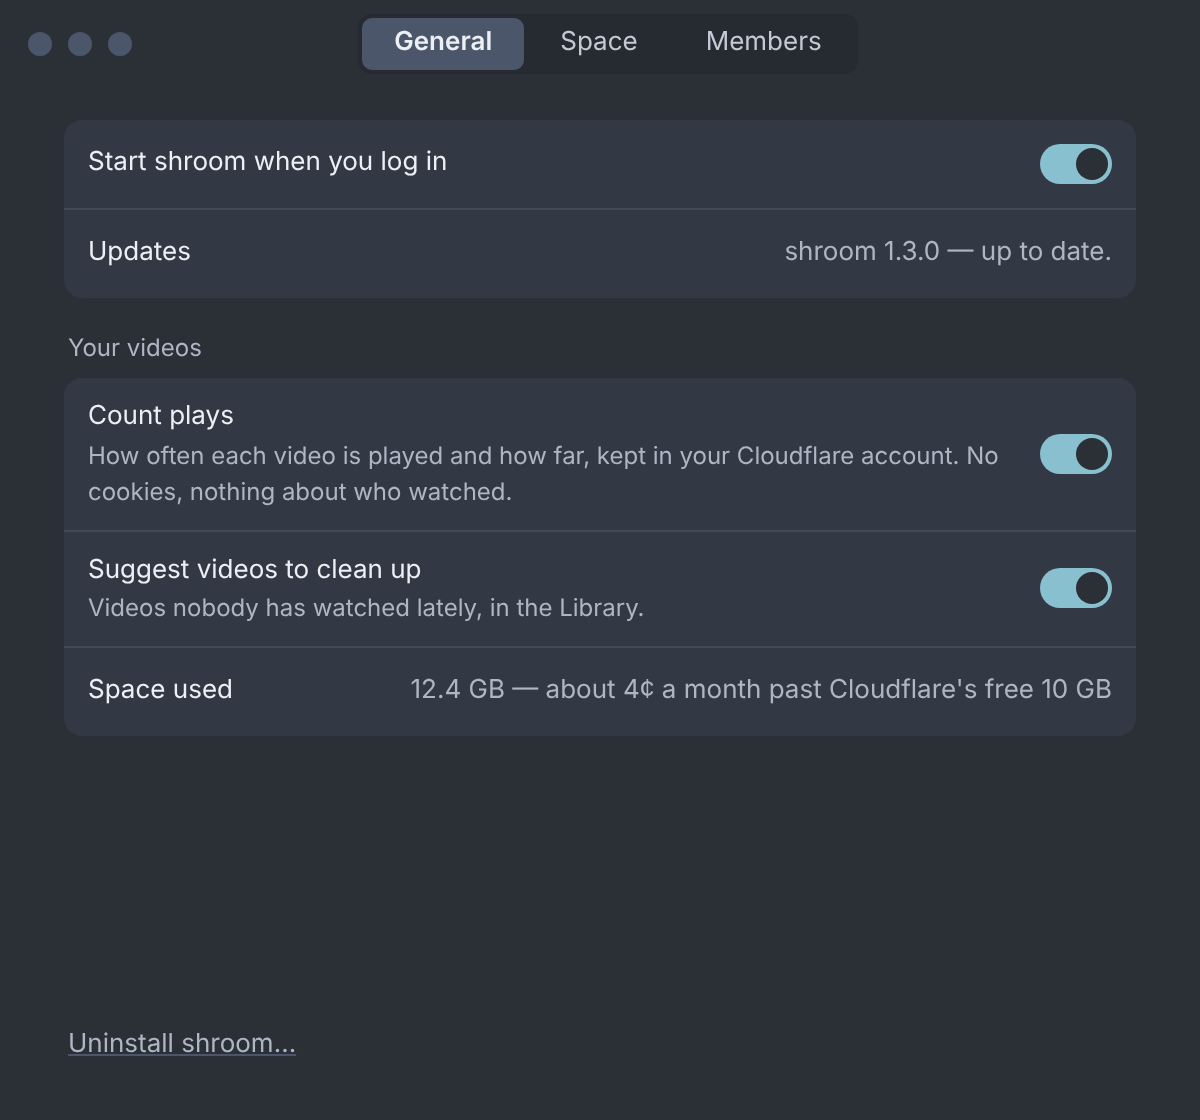
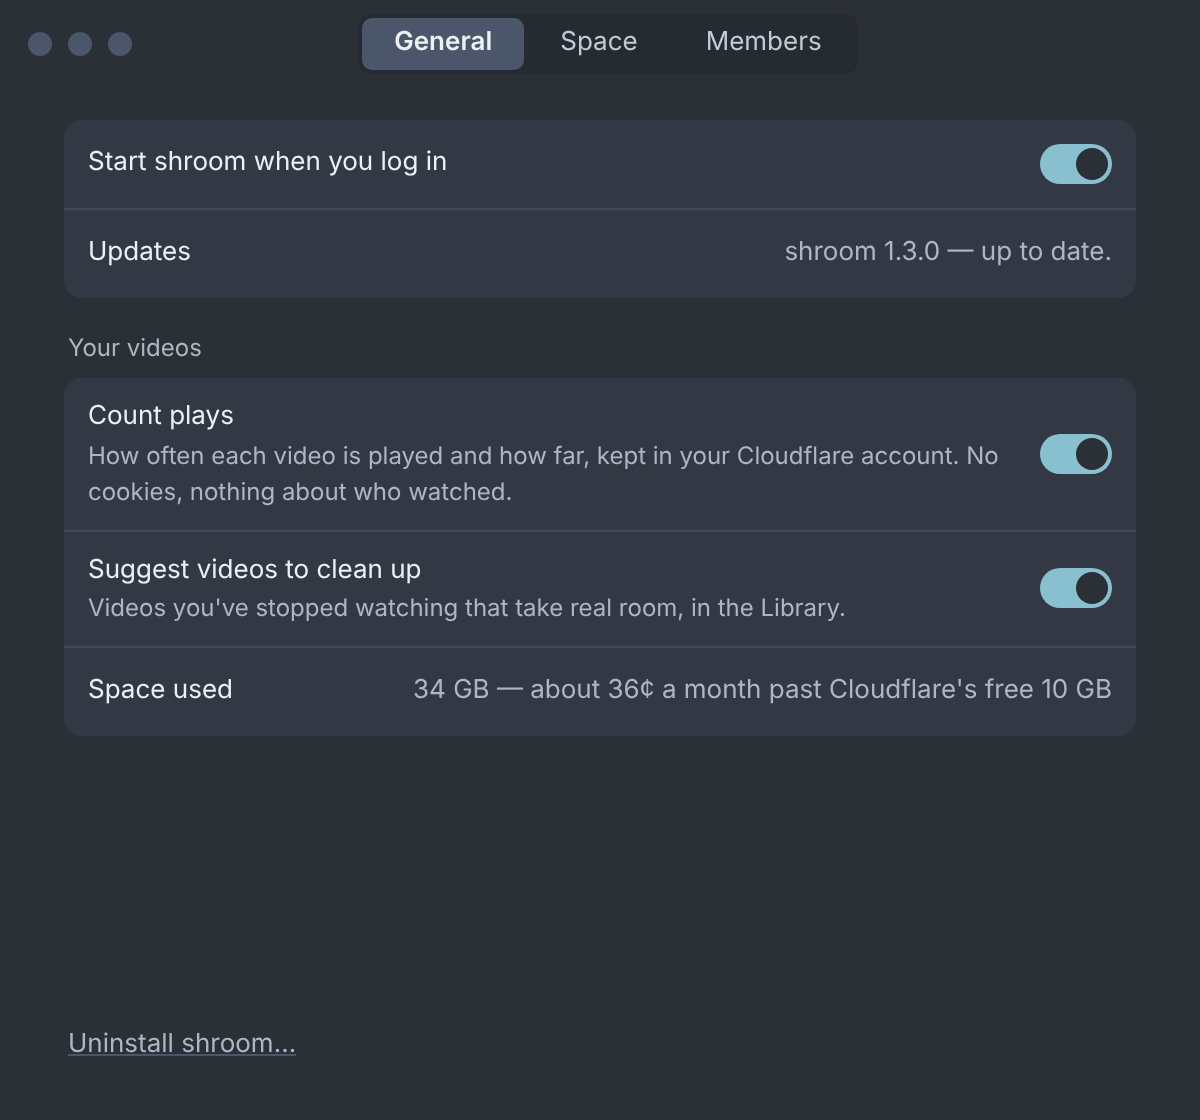
dev/proposals: cleanup suggestions take Bagrat's answers; fading-cost worked, inside the free tier too

Changed region(s): [[0.1542, 0.5312, 0.7092, 0.5625], [0.3392, 0.5938, 0.5242, 0.625]]

diff --git a/dev/proposals/cleanup-suggestions.md b/dev/proposals/cleanup-suggestions.md
@@ -4,6 +4,16 @@
 privacy page promises, and the new rows, words and setting are all Bagrat's call. The words on
 the boards and in the reasons are drafts.*
 
+> **Bagrat's answers (2026-10-18), relayed by the orchestrator:**
+> 1. **Count plays: on by default**, with the switch in Settings.
+> 2. **Count plays and unique-ish viewers** (the daily-salted hash).
+> 3. **The formula: fading and cost together** (B + C). Built as `fading-cost`, now the
+>    route's default; see §3.
+> 4. **Delete: one tap, with Undo.**
+>
+> Questions 5–7 (the money line, who sees whose, the Mac writing `bytes`) stand as drafted
+> below. The privacy wording waits on his words.
+
 Bagrat asked (2026-10-18) for shroom to work out which videos are worth deleting. Storage is
 what costs money, so shroom should be able to say *these ones, and why*. He suggested
 a formula built from when a video was added, how often it's been watched, how much of it
@@ -19,9 +29,11 @@ people watch and when it was last watched, and asked for several versions.
   a verdict: a candidate or not, a score to rank by, and a reason code with the facts its line
   needs. The app's Library and the agent CLI (`shroom cleanup-candidates --json`) both read
   it.
-- **Four formulas**, run over the same invented Library in §3. **The recommendation is `idle`**:
-  nobody has played it in 60 days (30 if nobody ever has), with the biggest and quietest
-  first. It's the only one whose reason a person can check in their head.
+- **Five formulas**, run over the same invented Library in §3. **Bagrat picked fading and cost
+  together**, built as `fading-cost`: a video is suggested when its plays have faded (a
+  30-day half-life, weighted by how far people watched) *and* it takes at least a cent a
+  month to keep (≈ 0.67 GB). The dearest per remaining play goes first. Its reason line is
+  checkable: "Takes 3.2 GB; watched 4 times, the last 10 months ago."
 - **The money is small, so say so.** At Cloudflare's $0.015 per GB a month, with the first
   10 GB free, a 12 GB space saves about 4¢ a month by deleting 8.6 GB. The suggestion has to
   earn its place on tidiness and on staying inside the free tier, not on the saving. Every
@@ -104,13 +116,13 @@ each, so even a thousand of them is far under a cent of storage.
 | `POST /_shroom/view/<id>`: same-site only (`Origin` itself, `Origin: null` from WebKit's unload beacons, never `Sec-Fetch-Site: cross-site`), at most 512 bytes, always 204 | `viewBeacon`, `daySalt`, `viewerHash`, `countView`, `applyView` |
 | The scores and the saving | `cleanupFacts`, `cleanupScore`, `monthlySaving`, `FORMULAS` |
 | `POST /_shroom/api/cleanup` `{scope: "mine"\|"everyone", formula?, after?}` → `{countingSince, formula, items, next}`: device key; a member sees their own; paged like the Library (40 records a call) | `cleanup` |
-| 23 unit tests: counting, dedupe, the day's salt, CAS races, refusals, the owner page, the formulas, the route's scopes and paging | `worker/test/views.test.js` |
+| 24 unit tests: counting, dedupe, the day's salt, CAS races, refusals, the owner page, the formulas, the route's scopes and paging | `worker/test/views.test.js` |
 | Real browsers: a bounce, a half watch, a full watch, the owner's own watch, in headless Chromium and WebKit | `worker/dev/views-drive.mjs` |
 | The four formulas over an invented Library | `worker/dev/cleanup-sample.mjs` |
 
 ```sh
 cd worker
-npx vitest run test/views.test.js        # 23/23
+npx vitest run test/views.test.js        # 24/24
 node dev/views-drive.mjs                 # Chromium and WebKit: 12/12 checks
 node dev/cleanup-sample.mjs              # §3's tables
 ```
@@ -125,7 +137,7 @@ switch's write (`.shroom/views.off` is honoured, but nothing writes it yet), and
 video's record when it's deleted (the token Mac's sweep would; a stale record is harmless
 because `cleanup` lists only live videos).
 
-## 3. Four formulas, worked
+## 3. Five formulas, worked
 
 Every formula shares the same guards. **Never suggest:** a video marked **Keep** (a new
 `keep: true` on its record); one under 14 days old; one played in the last 14 days; one still
@@ -142,7 +154,8 @@ single-file copy together).
 
 | | Rule | Ranks by | Good at | Weak at |
 |---|---|---|---|---|
-| **A. `idle`** (recommended) | Nobody has played it in 60 days, or 30 if nobody ever has | quiet days × GB | Easy to explain: "Last watched 4 months ago." Anyone can check it. | Ignores how popular it once was |
+| **B + C. `fading-cost`** (Bagrat's pick, the default) | B's heat under 0.25 **and** at least 1¢ a month at list price (≈ 0.67 GB); at least 30 days old and quiet | $/month ÷ (heat + 0.05) | Suggests only what has faded *and* takes real room; protects past hits; the line reads "Takes 3.2 GB; watched 4 times, the last 10 months ago" | Conservative: small clutter (drafts, test takes) is never suggested at 1¢ |
+| **A. `idle`** | Nobody has played it in 60 days, or 30 if nobody ever has | quiet days × GB | Easy to explain: "Last watched 4 months ago." Anyone can check it. | Ignores how popular it once was |
 | **B. `fading`** | Plays fade with a 30-day half-life, each weighted by how far it was watched (0.3 + 0.7 × median); suggested once below 0.25, which is one full watch two months ago | GB ÷ heat | Respects a past hit: 30 plays five months ago aren't suggested yet | Hard to say in a line; the knobs are arbitrary |
 | **C. `cost`** | Costs at least 1¢ a month and drew under one play a month over 90 days | $/month ÷ plays per month | Goes straight for the money, big files only | Never suggests the small clutter (test takes, drafts) |
 | **D. `gravity`** | Hacker News's gravity turned round: (plays × (0.5 + median) + 1) ÷ (age + 2)^1.5, below 0.004 | GB ÷ pull | One number, well known | Opaque, and age keeps penalising a video that's still in use |
@@ -168,7 +181,8 @@ Twelve made-up videos, 12.4 GB in all; counting began six months ago; today is 2
 
 | Formula | Suggests | Frees | Saves a month (past the free 10 GB) | At list price |
 |---|---|---|---|---|
-| **A. idle** | 8: billing walkthrough, Q3 roadmap, Release 1.4 demo, Acme recap, design review, weekly update, bug repro, draft | 8.61 GB | **4¢** | 13¢ |
+| **B + C. fading-cost** | 2: billing walkthrough ("Takes 3.22 GB; watched 4 times, the last 10 months ago"), Acme recap ("Takes 1.78 GB; nobody has watched it in 45 days") | 5.00 GB | **4¢** | 8¢ |
+| A. idle | 8: billing walkthrough, Q3 roadmap, Release 1.4 demo, Acme recap, design review, weekly update, bug repro, draft | 8.61 GB | 4¢ | 13¢ |
 | B. fading | 5: billing walkthrough, Acme recap, draft, bug repro, design review | 6.11 GB | 4¢ | 9¢ |
 | C. cost | 4: billing walkthrough, Acme recap, Q3 roadmap, Release 1.4 demo | 7.11 GB | 4¢ | 11¢ |
 | D. gravity | 4: billing walkthrough, Acme recap, draft, bug repro | 5.50 GB | 4¢ | 8¢ |
@@ -183,6 +197,17 @@ because only 2.4 GB sits past the free 10 GB. **That's the real finding**:
 - **The saving is small at R2's prices.** A heavy space of 100 GB costs $1.35 a month in all;
   clearing 30 GB saves 45¢. Suggestions should name the number honestly. Inside the free
   10 GB they should say it frees space and saves nothing yet, not pretend otherwise.
+- **`fading-cost` is strict on purpose.** It suggests two of twelve here: the two that
+  faded and take real room. Q3 roadmap and Release 1.4 demo were big hits a few months ago
+  and their plays haven't faded below the line yet. The draft and the design review are under
+  a cent a month. With the gate at half a cent (≈ 0.33 GB, about 6 minutes) it would add the
+  draft and the design review: 4 videos, 5.9 GB. The gate is one constant
+  (`FADING_COST.usdAtLeast`); open question 8.
+- **Inside the free 10 GB** (the same Library less the deploy and onboarding videos, 9.2 GB),
+  `fading-cost` still suggests the same two. Its cost gate reads the *list price* (the room a
+  video takes), not the bill. So inside the free tier it still names what takes the room,
+  and the saving line says honestly that it saves nothing yet. Gating on the bill instead
+  would suggest nothing until a space passed 10 GB, and then everything at once.
 - **The pull is staying inside the free tier.** The FAQ says about three hours of video fit in
   the free 10 GB. "Delete these 8 and you're back inside Cloudflare's free space" is a line
   that saves the whole bill. Proposed: when the suggestions would bring a space under 10 GB,
@@ -190,9 +215,11 @@ because only 2.4 GB sits past the free 10 GB. **That's the real finding**:
 
 ## 4. Where it shows
 
-The boards, under *Library and Settings*, at the bottom of the column:
+The boards, under *Library and Settings*, at the bottom of the column. They show a bigger
+invented space than §3's (34 GB, six suggestions under `fading-cost`), so the view has
+rows to show:
 
-1. **The Library's quiet line**: "8 videos nobody has watched lately take 8.6 GB.
+1. **The Library's quiet line**: "6 videos you've stopped watching take 11 GB.
    Review…", with ✕ for not now. It shows above the rows when there's at least one candidate
    and the switch is on. ✕ hides it until the list changes.
 2. **Suggested to clean up**: a view of its own (‹ Library to go back). A line on the total
@@ -200,7 +227,7 @@ The boards, under *Library and Settings*, at the bottom of the column:
    words**, plus **Keep**, **Delete** and Open page. **Delete is one tap, with Undo**: the
    video leaves the list, a line says "Deleted “…”. Undo" for a few seconds, and only then is
    the delete sent. Undo after the seal isn't possible (B125), so the delay *is* the undo.
-   **Delete all 8…** asks once, with the delete sheet's own words.
+   **Delete all 6…** asks once, with the delete sheet's own words.
 3. **Settings → General**, a group called *Your videos* with three rows. **Count plays**
    (on by default; the line under it says what's kept and that no cookie is used), **Suggest
    videos to clean up** (on), and **Space used** with the honest cost line.
@@ -243,7 +270,9 @@ Points behind it:
   mid-take surprises) is untouched; the "never silently" principle is kept by the privacy
   page and the Settings line.*
 - **N-cleanup-b. The Library suggests videos to clean up.** When counting has seen a video
-  long enough, and nobody has played it in 60 days (30 if never), it's suggested. Never
+  long enough, its plays have faded (a 30-day half-life, weighted by how far they watched,
+  below a quarter of one fresh full watch) and it takes at least a cent a month to keep,
+  it's suggested. Never
   within 14 days of its making or a play, and never one marked Keep. New Library state:
   `library-cleanup` (the view), reached from the quiet line's **Review…**. Edges: **Keep** →
   the row leaves, for good. **Delete** → the row leaves, the Undo line shows, then the existing
@@ -253,24 +282,27 @@ Points behind it:
 - **The record gains `keep: true` and `bytes`** (additive; the Mac writes them under
   If-Match).
 - **For agents:** `POST /_shroom/api/cleanup` is the CLI's source. `shroom
-  cleanup-candidates --json [--formula idle|fading|cost|gravity] [--everyone]` pages it with
+  cleanup-candidates --json [--formula fading-cost|idle|fading|cost|gravity] [--everyone]` pages it with
   the device key until `next` is null, then prints the candidates with their reason codes,
   facts and `usdPerMonth`. The reason codes are stable; the words aren't, so an agent writes
   its own. Deleting stays the existing delete path (an agent proposes, the person confirms).
 
 ## 7. Open questions for Bagrat
 
-1. **Count plays on by default, or ask?** The recommendation is on, with the privacy line
+*Answered 2026-10-18: 1 (on by default), 2 (plays and unique-ish viewers), 3 (fading and cost
+together), 4 (one tap with Undo). Still open: 5–8, and the privacy wording.*
+
+1. *(Answered: on by default.)* **Count plays on by default, or ask?** The recommendation is on, with the privacy line
    changed and the switch in Settings. It's the owner's data in the owner's account, and
    cleanup is useless without it. The alternative is a one-time question when the
    suggestions first have something to say.
-2. **Unique-ish viewers, or plays only?** Viewers is nice to show ("23 people") but needs the
+2. *(Answered: both.)* **Unique-ish viewers, or plays only?** Viewers is nice to show ("23 people") but needs the
    daily hash. Plays only means nothing about the viewer is even read, and the privacy line
    gets simpler. The formulas don't need viewers.
-3. **Which formula?** The recommendation is **A, `idle`**, because its reason is a sentence a
+3. *(Answered: fading and cost together, `fading-cost`.)* **Which formula?** The recommendation was **A, `idle`**, because its reason is a sentence a
    person can check. B (`fading`) is the alternative if past hits should be protected
    longer.
-4. **One-tap Delete with Undo, or the existing confirm sheet per video?** The brief said
+4. *(Answered: one tap with Undo.)* **One-tap Delete with Undo, or the existing confirm sheet per video?** The brief said
    one-tap; drawn as one tap with a few seconds' Undo before the delete is sent.
 5. **The money line.** Show cents ("about 4¢ a month"), only the GB, or the free-tier line
    when it applies? The recommendation is GB always, cents only past the free tier, and the
@@ -279,3 +311,7 @@ Points behind it:
    only their own. Should an owner be nudged about a member's old videos, or only their own?
 7. **Should old videos' size come from the bucket?** A Mac can sum `rec/<id>/` once and
    write `bytes`; the estimate from duration is within about 20% at Normal quality.
+8. **fading-cost's size gate: 1¢ a month (≈ 0.67 GB, about 12 minutes), or half a cent
+   (≈ 0.33 GB, about 6)?** At 1¢ it suggests 2 of the sample's 12; at half a cent, 4. The
+   recommendation is to keep 1¢ for now (fewer, surer suggestions) and revisit with real
+   counts.
